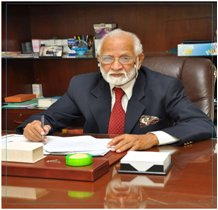
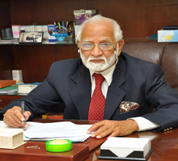
Alignment Issue Resolved

diff --git a/index.html b/index.html
@@ -5,6 +5,16 @@
 <meta name="viewport" content="width=device-width, initial-scale=1">
 <link rel="stylesheet" href="https://www.w3schools.com/w3css/4/w3.css">
 <link rel="stylesheet" href="https://fonts.googleapis.com/css?family=Karma">
+<link rel="stylesheet" href="https://maxcdn.bootstrapcdn.com/bootstrap/3.3.7/css/bootstrap.min.css" integrity="sha384-BVYiiSIFeK1dGmJRAkycuHAHRg32OmUcww7on3RYdg4Va+PmSTsz/K68vbdEjh4u"
+  crossorigin="anonymous">
+
+<!-- Optional theme -->
+<link rel="stylesheet" href="https://maxcdn.bootstrapcdn.com/bootstrap/3.3.7/css/bootstrap-theme.min.css" integrity="sha384-rHyoN1iRsVXV4nD0JutlnGaslCJuC7uwjduW9SVrLvRYooPp2bWYgmgJQIXwl/Sp"
+  crossorigin="anonymous">
+
+<!-- Latest compiled and minified JavaScript -->
+<script src="https://maxcdn.bootstrapcdn.com/bootstrap/3.3.7/js/bootstrap.min.js" integrity="sha384-Tc5IQib027qvyjSMfHjOMaLkfuWVxZxUPnCJA7l2mCWNIpG9mGCD8wGNIcPD7Txa"
+  crossorigin="anonymous"></script>
 <style>
   body,
   h1,
@@ -29,9 +39,14 @@
     max-width: 45% !important;
     height: 361px !important;
   }
-  .cop-data{
+
+  .cop-data {
     display: flex;
     justify-content: center
+  }
+
+  .nin {
+    max-width: 96% !important;
   }
 </style>
 
@@ -108,22 +123,22 @@
 
     <div class="w3-container w3-padding-32 w3-center">
       <h3>Oranizational Chart</h3><br>
-      <img src="highareki.png" alt="Me" class="w3-image president-image" style="display:block;margin:auto" width="800"
+      <img src="highareki.png" alt="Me" class="w3-image president-image nin" style="display:block;margin:auto" width="800"
         height="533">
     </div>
     <hr>
 
     <div class="w3-container w3-padding-32 w3-center">
       <h3>Field Force Structure</h3><br>
-      <img src="fieldStructure.png" alt="Me" class="w3-image president-image" style="display:block;margin:auto" width="800"
-        height="533">
+      <img src="fieldStructure.png" alt="Me" class="w3-image president-image nin" style="display:block;margin:auto"
+        width="800" height="533">
     </div>
     <hr>
 
     <div class="w3-container w3-padding-32 w3-center">
       <h3>Financial Partners</h3><br>
-      <img src="financialPartner.png" alt="Me" class="w3-image president-image" style="display:block;margin:auto" width="800"
-        height="533">
+      <img src="financialPartner.png" alt="Me" class="w3-image president-image nin" style="display:block;margin:auto"
+        width="800" height="533">
       <h6 style="text-align:center"><i>
           Financial activities are performed through Pakistan and foreign Banks, at the moment the company has account
           in number of Banks:
@@ -173,10 +188,10 @@
           - FLUTAMIDA (Flutamide).</p>
       </div>
       <div class="w3-quarter">
-        <img src="logo.JPG" alt="Cherries" class="img-height">
+        <img src="c3.png" alt="Cherries" class="img-height">
         <h3>Eriochem Laboratory, Argentina</h3>
         <!-- <p>Lorem ipsum text praesent tincidunt ipsum lipsum.</p> -->
-        <p>What else?</p>
+        <!-- <p>What else?</p> -->
       </div>
       <div class="w3-quarter">
         <img src="logo.JPG" alt="Pasta and Wine" class="img-height">
@@ -188,48 +203,49 @@
     <!-- Second Photo Grid-->
     <div class="w3-row-padding w3-padding-16 w3-center">
       <div class="w3-quarter">
-        <img src="logo.JPG" alt="Popsicle" class="img-height">
+        <img src="c5.jpg" alt="Popsicle" class="img-height">
         <h3>Laboratories A. Bailly–Creat France</h3>
         <!-- <p>Lorem ipsum text praesent tincidunt ipsum lipsum.</p> -->
       </div>
       <div class="w3-quarter">
-        <img src="logo.JPG" alt="Salmon" class="img-height">
+        <img src="c6.png" alt="Salmon" class="img-height">
         <h3>Ferris Mfg, USA(Wound Care)</h3>
         <!-- <p>Once again, some random text to lorem lorem lorem lorem ipsum text praesent tincidunt ipsum lipsum.</p> -->
       </div>
       <div class="w3-quarter">
         <img src="logo.JPG" alt="Sandwich" class="img-height">
         <h3>Rosenbusch Laboratory, Argentina</h3>
-        <p>Just some random text, lorem ipsum text praesent tincidunt ipsum lipsum.</p>
+        <!-- <p>Just some random text, lorem ipsum text praesent tincidunt ipsum lipsum.</p> -->
       </div>
       <div class="w3-quarter">
         <img src="logo.JPG" alt="Croissant" class="img-height">
         <h3>ONY, Corporation, USA</h3>
-        <p>Lorem lorem lorem lorem ipsum text praesent tincidunt ipsum lipsum.</p>
+        <!-- <p>Lorem lorem lorem lorem ipsum text praesent tincidunt ipsum lipsum.</p> -->
       </div>
+    </div>
+
+    <div class="w3-row-padding w3-padding-16 w3-center">
       <div class="w3-quarter">
         <img src="logo.JPG" alt="Croissant" class="img-height">
         <h3>Lab Libra, Uruguay (Oncological Range)</h3>
-        <p>Lorem lorem lorem lorem ipsum text praesent tincidunt ipsum lipsum.</p>
+        <!-- <p>Lorem lorem lorem lorem ipsum text praesent tincidunt ipsum lipsum.</p> -->
       </div>
       <div class="w3-quarter">
         <img src="logo.JPG" alt="Croissant" class="img-height">
         <h3>SSM, Turkey (Sutures & Others)</h3>
-        <p>Lorem lorem lorem lorem ipsum text praesent tincidunt ipsum lipsum.</p>
+        <!-- <p>Lorem lorem lorem lorem ipsum text praesent tincidunt ipsum lipsum.</p> -->
       </div>
       <div class="w3-quarter">
         <img src="logo.JPG" alt="Croissant" class="img-height">
         <h3>Orhan Boz, Turkey (Sutures & others)</h3>
-        <p>Lorem lorem lorem lorem ipsum text praesent tincidunt ipsum lipsum.</p>
+        <!-- <p>Lorem lorem lorem lorem ipsum text praesent tincidunt ipsum lipsum.</p> -->
       </div>
       <div class="w3-quarter">
         <img src="logo.JPG" alt="Croissant" class="img-height">
         <h3>LKM S A , Argentina</h3>
-        <p>Lorem lorem lorem lorem ipsum text praesent tincidunt ipsum lipsum.</p>
+        <!-- <p>Lorem lorem lorem lorem ipsum text praesent tincidunt ipsum lipsum.</p> -->
       </div>
     </div>
-
-
 
 
 
@@ -247,28 +263,23 @@
     </div>
     <hr>
 
-    <!-- First Photo Grid-->
-    <div class="w3-row-padding w3-padding-16 w3-center" id="food">
-      <h2>Corporate Data</h2>
-      <div class="cop-data"> 
+
+    <div class="w3-row-padding w3-padding-16 w3-center" style="margin-left: 9%">
       <div class="w3-quarter">
-        <!-- <img src="c1.png" alt="Sandwich" class="img-height"> -->
-        <h3>AUDITORS</h3>
-        <p>M/s Namdar & Co.,Chartered Accountants,<br>542- Sunny Plaza, Hasrat Mohani Road,Karachi.<br>Phone #. 2639825,Fax # . 2626378</p>
+        <h3>LEGAL ATTORNEYS:</h3>
+        <p>M/s Azizuddin & Shahid Law Associates,<br>89/III/II, 30th Street, Off Khayaban-e-Rahat Phase VI, Defence
+          Housing Authority, Karachi<br>Phone #. 5340013 / 5340049</p>
       </div>
       <div class="w3-quarter">
-          <!-- <img src="c1.png" alt="Sandwich" class="img-height"> -->
-          <h3>LEGAL ATTORNEYS:</h3>
-          <p>M/s Azizuddin & Shahid Law Associates,<br>89/III/II, 30th Street, Off Khayaban-e-Rahat Phase VI, Defence Housing Authority, Karachi<br>Phone #. 5340013 / 5340049</p>
-        </div>
-        <div class="w3-quarter">
-            <!-- <img src="c1.png" alt="Sandwich" class="img-height"> -->
-            <h3>INCOME TAX ADVISERS</h3>
-            <p>The Tax Consultant.<br> Suit # C5, Maymar Square, Block-14 Gulshan-e-Iqbal.<br>Phone #: 021-4948055</p>
-          </div>
-          </div>
+        <h3>AUDITORS</h3>
+        <p>M/s Namdar & Co.,Chartered Accountants,<br>542- Sunny Plaza, Hasrat Mohani Road,Karachi.<br>Phone #.
+          2639825,Fax # . 2626378</p>
+      </div>
+      <div class="w3-quarter">
+        <h3>INCOME TAX ADVISERS</h3>
+        <p>The Tax Consultant.<br> Suit # C5, Maymar Square, Block-14 Gulshan-e-Iqbal.<br>Phone #: 021-4948055</p>
+      </div>
     </div>
-
     <!-- Pagination -->
     <!-- <div class="w3-center w3-padding-32">
     <div class="w3-bar">
@@ -339,15 +350,15 @@
       <div class="w3-padding-32" style="padding-top:0px !important">
         <!-- <h4><b></b></h4> -->
         <h6><i>BUSINESS TURNOVER
-           <br> 2006 –'96 2007 (July-2007 - June-2008)
-           <br> US$ 32.00 Million.
-           <br> 2015 - 2016 (July-2015 - June 2016)
-           <br>  US$ 56.00 Million.
-           <br>NUMBER OF EMPLOYEES
-           <br>Management: 08
-           <br>Administrative Staff: 19
-           <br>Sales Staff: 58
-           <br>Total: 85
+            <br> 2006 –'96 2007 (July-2007 - June-2008)
+            <br> US$ 32.00 Million.
+            <br> 2015 - 2016 (July-2015 - June 2016)
+            <br> US$ 56.00 Million.
+            <br>NUMBER OF EMPLOYEES
+            <br>Management: 08
+            <br>Administrative Staff: 19
+            <br>Sales Staff: 58
+            <br>Total: 85
           </i></h6>
       </div>
     </div>
